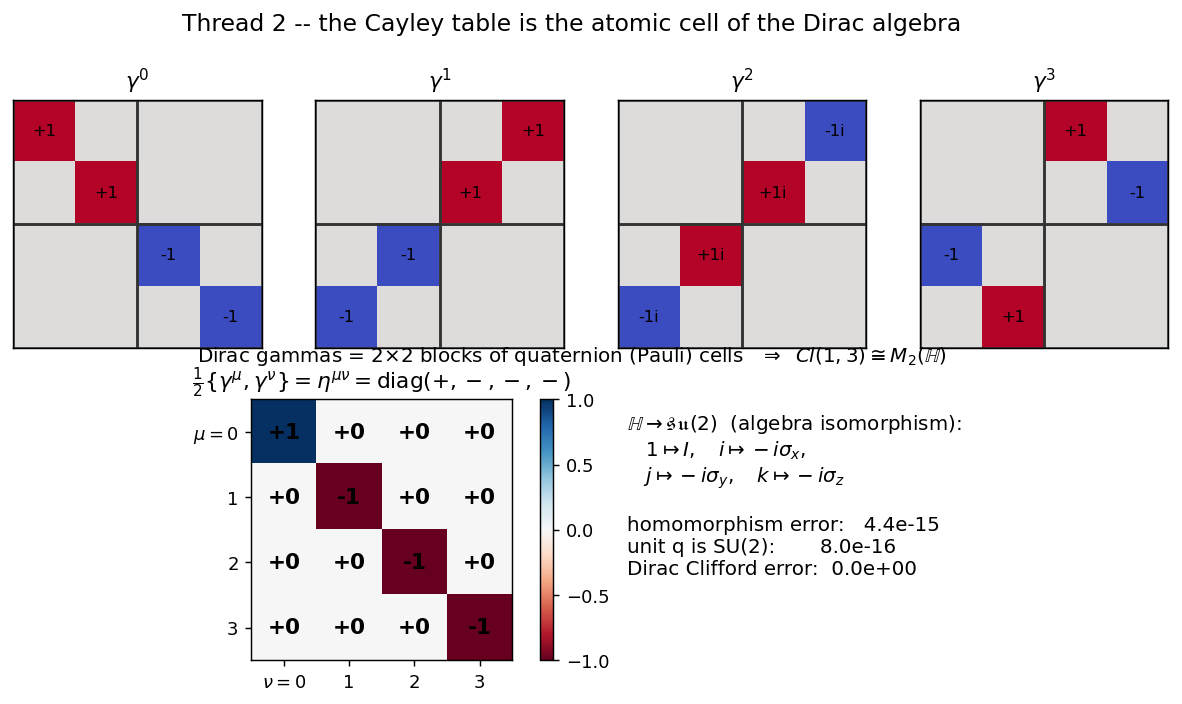
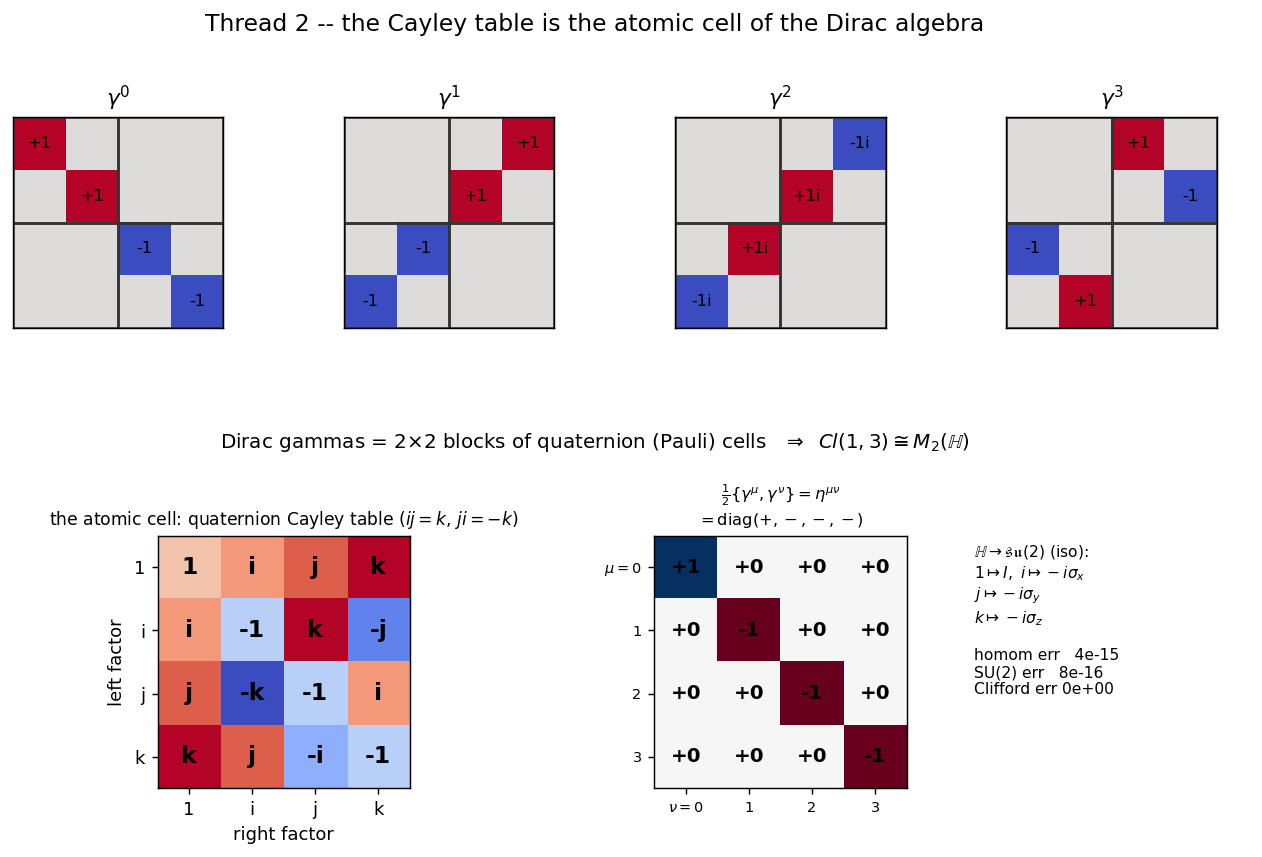
Show the quaternion Cayley table (the atomic cell) inside the Dirac figure
The Dirac figure (fig10) is titled "the Cayley table is the atomic cell of the
Dirac algebra" but never actually drew the quaternion Cayley table -- its bottom-
right panel's own comment promised "the quaternion Cayley table as Pauli matrices"
yet rendered only the H->su(2) text. So the figure asserted its thesis without
showing it, jumping straight to the assembled Dirac gammas.

Fix: the bottom row now reads as the argument it claims -- the full 4x4 quaternion
Cayley table (the atomic cell: associative + distributive, only commutativity
fails) sits beside the recovered Minkowski metric and the H->su(2) verification.
Top row (the gammas) shows the assembled side; bottom-left shows the cell that
fills each 2x2 block. Widened spacing so the bridge caption no longer collides.

Note: fig5_cayley.png (the standalone full Cayley table in Section 3) was never
touched -- one commit since the repo's first, clean working tree, still shown at
Section 3. This change only adds the same table into the Dirac figure.

https://claude.ai/code/session_01MugwmjAUrLrWdr1QUQvUTg

diff --git a/src/dirac.py b/src/dirac.py
@@ -102,8 +102,8 @@ def make_figure(res: dict):
     keys = ["g0", "g1", "g2", "g3"]
     titles = [r"$\gamma^0$", r"$\gamma^1$", r"$\gamma^2$", r"$\gamma^3$"]
 
-    fig = plt.figure(figsize=(11.5, 5.6))
-    gs = fig.add_gridspec(2, 4, height_ratios=[1, 1.05])
+    fig = plt.figure(figsize=(12.6, 6.7))
+    gs = fig.add_gridspec(2, 4, height_ratios=[1, 1.2], hspace=0.9)
 
     # top row: the four Dirac gammas (real + imaginary encoded as signed magnitude)
     for idx, (k, t) in enumerate(zip(keys, titles)):
@@ -123,37 +123,60 @@ def make_figure(res: dict):
                                        edgecolor="0.2", lw=1.4))
         ax.set_xticks([]); ax.set_yticks([])
         ax.set_title(t)
-    fig.text(0.5, 0.52, r"Dirac gammas = 2$\times$2 blocks of quaternion (Pauli) cells "
-                        r"$\;\;\Rightarrow\;\; Cl(1,3)\cong M_2(\mathbb{H})$",
+    fig.text(0.5, 0.5, r"Dirac gammas = 2$\times$2 blocks of quaternion (Pauli) cells "
+                       r"$\;\;\Rightarrow\;\; Cl(1,3)\cong M_2(\mathbb{H})$",
              ha="center", fontsize=11)
 
-    # bottom left: recovered Minkowski metric from the anticommutator
-    ax = fig.add_subplot(gs[1, 0:2])
+    # bottom left: the quaternion Cayley table -- the ATOMIC CELL. It is
+    # associative and distributive (only commutativity fails); this is the cell
+    # that fills each 2x2 block of the gammas above.
+    axc = fig.add_subplot(gs[1, 0:2])
+    basis = {"1": F.ONE, "i": F.I, "j": F.J, "k": F.K}
+    bnames = list(basis); nb = len(bnames)
+    cell_color = np.zeros((nb, nb)); cell_lab = np.empty((nb, nb), dtype=object)
+    for r, a in enumerate(bnames):
+        for c, b in enumerate(bnames):
+            p = F.hamilton(basis[a], basis[b])
+            k_ = int(np.argmax(np.abs(p))); sgn = np.sign(p[k_])
+            cell_lab[r, c] = f"{'-' if sgn < 0 else ''}{bnames[k_]}"
+            cell_color[r, c] = sgn * (k_ + 1)
+    axc.imshow(cell_color, cmap="coolwarm", vmin=-4, vmax=4)
+    for r in range(nb):
+        for c in range(nb):
+            axc.text(c, r, cell_lab[r, c], ha="center", va="center",
+                     fontsize=13, fontweight="bold")
+    axc.set_xticks(range(nb), bnames); axc.set_yticks(range(nb), bnames)
+    axc.set_xlabel("right factor"); axc.set_ylabel("left factor")
+    axc.set_title("the atomic cell: quaternion Cayley table "
+                  r"($ij=k$, $ji=-k$)", fontsize=9.5)
+
+    # bottom middle: recovered Minkowski metric from the anticommutator
+    ax = fig.add_subplot(gs[1, 2:3])
     M = res["recovered_metric"]
-    im = ax.imshow(M, cmap="RdBu", vmin=-1, vmax=1)
+    ax.imshow(M, cmap="RdBu", vmin=-1, vmax=1)
     for r in range(4):
         for c in range(4):
-            ax.text(c, r, f"{M[r, c]:+.0f}", ha="center", va="center", fontsize=12,
+            ax.text(c, r, f"{M[r, c]:+.0f}", ha="center", va="center", fontsize=11,
                     fontweight="bold")
-    ax.set_xticks(range(4), [r"$\nu{=}0$", "1", "2", "3"])
-    ax.set_yticks(range(4), [r"$\mu{=}0$", "1", "2", "3"])
-    ax.set_title(r"$\frac{1}{2}\{\gamma^\mu,\gamma^\nu\}=\eta^{\mu\nu}=$diag$(+,-,-,-)$")
-    fig.colorbar(im, ax=ax, fraction=0.046)
+    ax.set_xticks(range(4), [r"$\nu{=}0$", "1", "2", "3"], fontsize=8)
+    ax.set_yticks(range(4), [r"$\mu{=}0$", "1", "2", "3"], fontsize=8)
+    ax.set_title(r"$\frac{1}{2}\{\gamma^\mu,\gamma^\nu\}=\eta^{\mu\nu}$" "\n"
+                 r"$=$diag$(+,-,-,-)$", fontsize=9)
 
-    # bottom right: the quaternion Cayley table as Pauli matrices (text)
-    ax = fig.add_subplot(gs[1, 2:4])
+    # bottom right: the H -> su(2) map and the verification errors
+    ax = fig.add_subplot(gs[1, 3:4])
     ax.axis("off")
     lines = [
-        r"$\mathbb{H}\to\mathfrak{su}(2)$  (algebra isomorphism):",
-        r"   $1\mapsto I,\quad i\mapsto -i\sigma_x,$",
-        r"   $j\mapsto -i\sigma_y,\quad k\mapsto -i\sigma_z$",
+        r"$\mathbb{H}\to\mathfrak{su}(2)$ (iso):",
+        r"$1\mapsto I,\ i\mapsto -i\sigma_x$",
+        r"$j\mapsto -i\sigma_y$",
+        r"$k\mapsto -i\sigma_z$",
         "",
-        f"homomorphism error:   {res['quaternion->Pauli homomorphism (err)']:.1e}",
-        f"unit q is SU(2):       {res['unit quaternion is unitary (err)']:.1e}",
-        f"Dirac Clifford error:  {res['Dirac Clifford relation (err)']:.1e}",
+        f"homom err   {res['quaternion->Pauli homomorphism (err)']:.0e}",
+        f"SU(2) err   {res['unit quaternion is unitary (err)']:.0e}",
+        f"Clifford err {res['Dirac Clifford relation (err)']:.0e}",
     ]
-    ax.text(0.02, 0.95, "\n".join(lines), va="top", ha="left", fontsize=11,
-            family="monospace" if False else None)
+    ax.text(0.0, 0.97, "\n".join(lines), va="top", ha="left", fontsize=8.6)
 
     fig.suptitle("Thread 2 -- the Cayley table is the atomic cell of the Dirac algebra",
                  y=1.0, fontsize=13)
